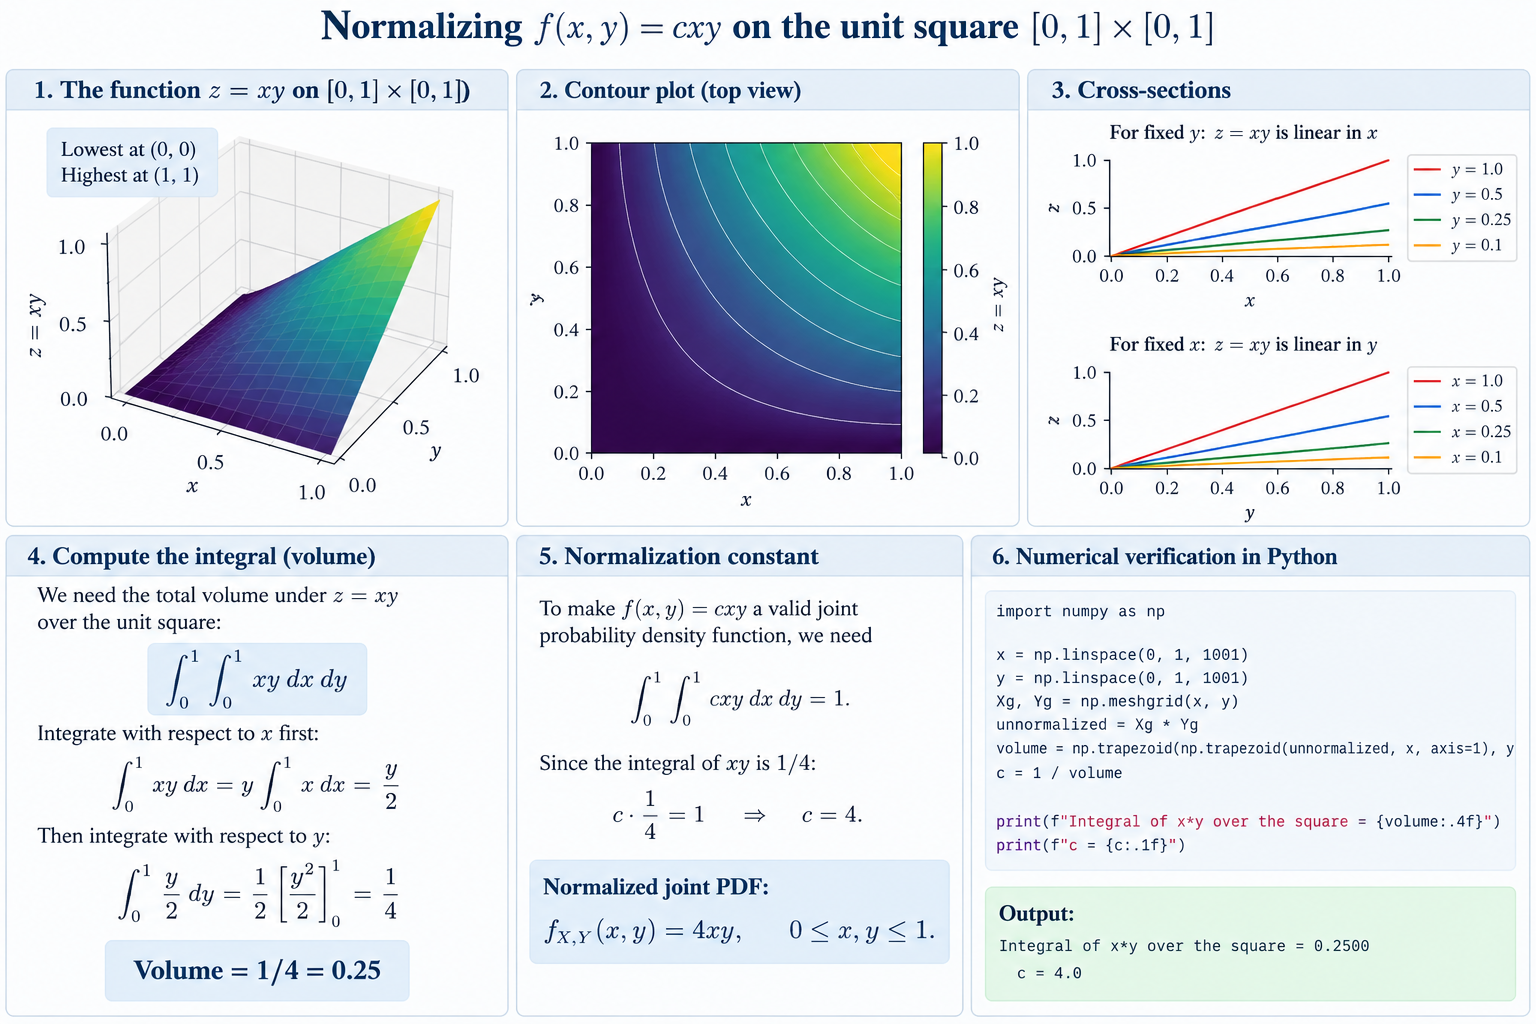
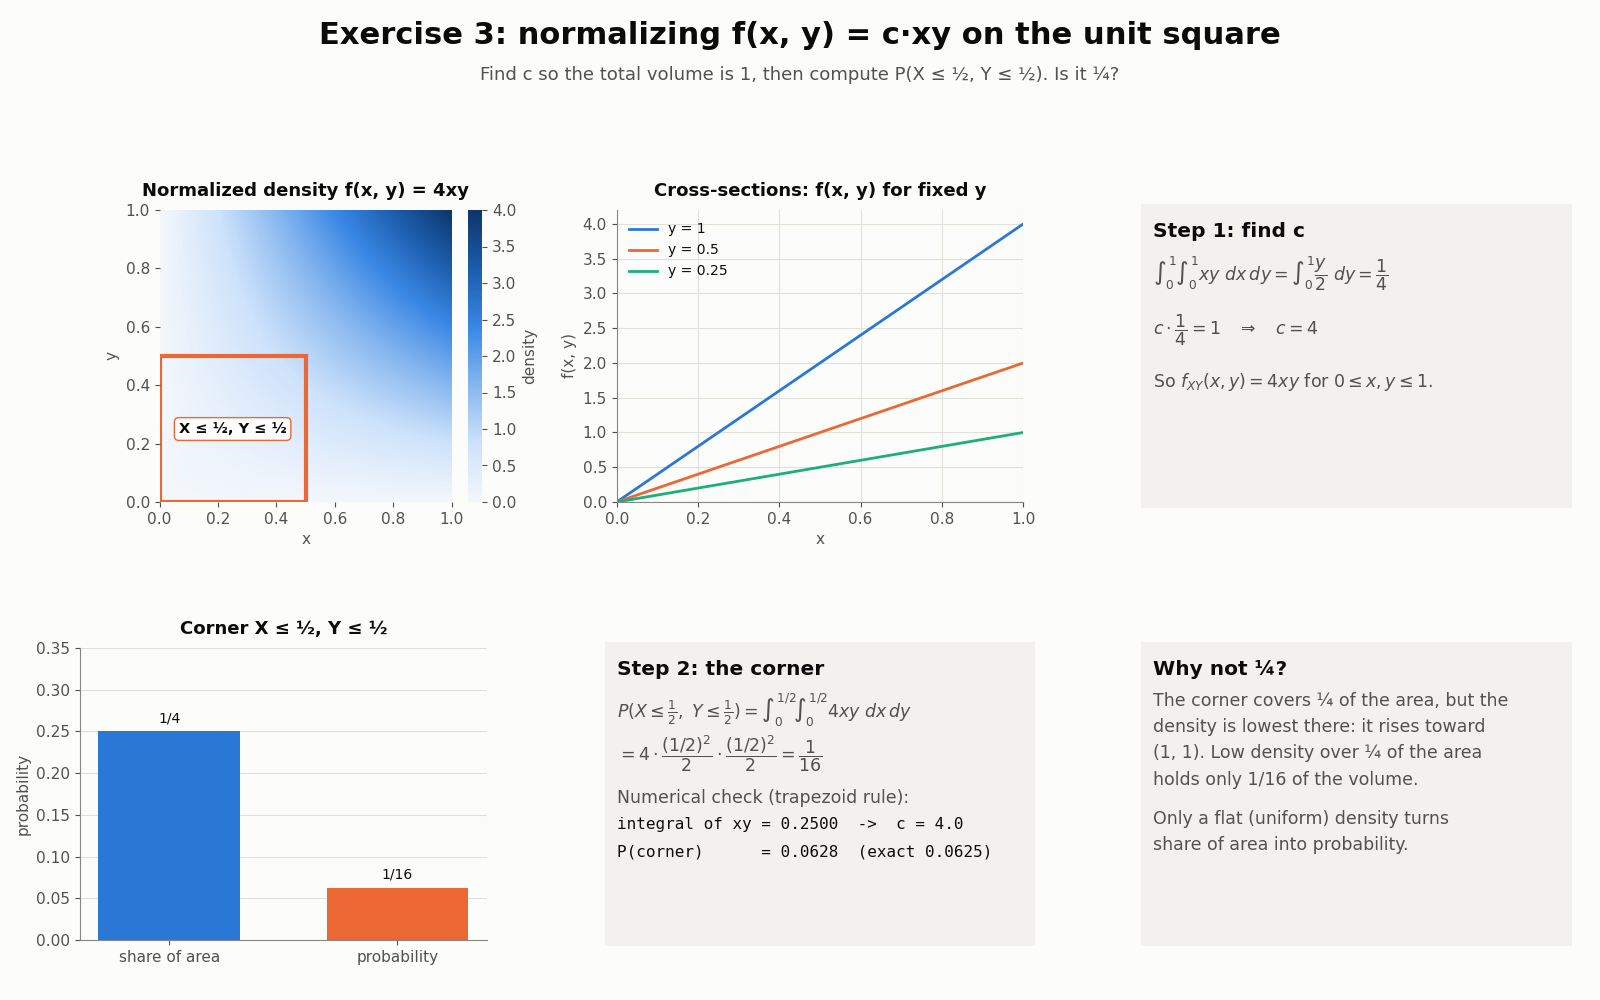
Regenerate remaining five solution images in the matplotlib style
All 13 illustrated solutions now come from make_solution_images.py with
one consistent style. The new 03_ex3 also covers the exercise's second
part, P(X<=1/2, Y<=1/2) = 1/16, which the old image omitted. Images
total 2.3 MB, down from about 21 MB.

diff --git a/coursera/03_probability_distribution_with_multiple_variables/make_solution_images.py b/coursera/03_probability_distribution_with_multiple_variables/make_solution_images.py
@@ -203,6 +203,290 @@ def wrap(text, width=48):
     return textwrap.wrap(text, width)
 
 
+def trapezoid(values, grid_points, axis=-1):
+    """np.trapezoid with the numpy<2 fallback."""
+    integrate = getattr(np, "trapezoid", None) or np.trapz
+    return integrate(values, grid_points, axis=axis)
+
+
+def density_image(fig, ax, values, title, vmax, extent=(0, 1, 0, 1), label="density"):
+    image = ax.imshow(values.T, origin="lower", extent=extent, cmap=SEQ, vmin=0, vmax=vmax,
+                      aspect="equal")
+    colorbar = fig.colorbar(image, ax=ax, fraction=0.046, pad=0.04)
+    colorbar.set_label(label)
+    colorbar.outline.set_visible(False)
+    ax.set_title(title)
+    for spine in ax.spines.values():
+        spine.set_visible(False)
+    return image
+
+
+# ================================================================ notebook 03 (correct originals, restyled)
+def fig_03_ex3():
+    grid_1d = np.linspace(0, 1, 1001)
+    xg, yg = np.meshgrid(grid_1d, grid_1d, indexing="ij")
+    volume = trapezoid(trapezoid(xg * yg, grid_1d, axis=1), grid_1d)
+    c = 1 / volume
+    corner = np.where((xg <= 0.5) & (yg <= 0.5), c * xg * yg, 0)
+    p_corner = trapezoid(trapezoid(corner, grid_1d, axis=1), grid_1d)
+    assert abs(c - 4) < 1e-6 and abs(p_corner - 1 / 16) < 2e-3
+
+    fig = new_figure("Exercise 3: normalizing f(x, y) = c·xy on the unit square",
+                     "Find c so the total volume is 1, then compute P(X ≤ ½, Y ≤ ½). Is it ¼?")
+    gs = grid(fig, wspace=0.32)
+
+    ax = fig.add_subplot(gs[0, 0])
+    density_image(fig, ax, c * xg * yg, "Normalized density f(x, y) = 4xy", vmax=4)
+    ax.add_patch(Rectangle((0, 0), 0.5, 0.5, fill=False, edgecolor=ORANGE, linewidth=3))
+    ax.text(0.25, 0.25, "X ≤ ½, Y ≤ ½", ha="center", va="center", fontsize=10.5, weight="bold",
+            color=INK, bbox=dict(facecolor="white", edgecolor=ORANGE, boxstyle="round,pad=0.3"))
+    ax.set_xlabel("x")
+    ax.set_ylabel("y")
+
+    ax = fig.add_subplot(gs[0, 1])
+    for y_fixed, color in [(1.0, BLUE), (0.5, ORANGE), (0.25, AQUA)]:
+        ax.plot(grid_1d, c * grid_1d * y_fixed, color=color, linewidth=2, label=f"y = {y_fixed:g}")
+    ax.set_title("Cross-sections: f(x, y) for fixed y")
+    ax.set_xlabel("x")
+    ax.set_ylabel("f(x, y)")
+    ax.set_xlim(0, 1)
+    ax.set_ylim(0, 4.2)
+    ax.grid(True)
+    ax.legend(loc="upper left", fontsize=10)
+
+    panel(fig.add_subplot(gs[0, 2]), "Step 1: find c", [
+        r"$\int_0^1 \int_0^1 xy\ dx\,dy = \int_0^1 \dfrac{y}{2}\ dy = \dfrac{1}{4}$",
+        "",
+        "",
+        r"$c \cdot \dfrac{1}{4} = 1 \quad \Rightarrow \quad c = 4$",
+        "",
+        "",
+        r"So $f_{XY}(x, y) = 4xy$ for $0 \leq x, y \leq 1$.",
+    ], spacing=0.1)
+
+    ax = fig.add_subplot(gs[1, 0])
+    bars(ax, ["share of area", "probability"], [0.25, p_corner],
+         "Corner X ≤ ½, Y ≤ ½", "", ylim=0.35, label_fmt=lambda v: frac_label(v, 16), highlight=1)
+
+    panel(fig.add_subplot(gs[1, 1]), "Step 2: the corner", [
+        r"$P(X \leq \frac{1}{2},\ Y \leq \frac{1}{2}) = \int_0^{1/2}\!\int_0^{1/2} 4xy\ dx\,dy$",
+        "",
+        r"$= 4 \cdot \dfrac{(1/2)^2}{2} \cdot \dfrac{(1/2)^2}{2} = \dfrac{1}{16}$",
+        "",
+        "",
+        "Numerical check (trapezoid rule):",
+        f"`integral of xy = {volume:.4f}  ->  c = {c:.1f}`",
+        f"`P(corner)      = {p_corner:.4f}  (exact 0.0625)`",
+    ], spacing=0.095)
+
+    panel(fig.add_subplot(gs[1, 2]), "Why not ¼?", [
+        "The corner covers ¼ of the area, but the",
+        "density is lowest there: it rises toward",
+        "(1, 1). Low density over ¼ of the area",
+        "holds only 1/16 of the volume.",
+        "",
+        "Only a flat (uniform) density turns",
+        "share of area into probability.",
+    ], spacing=0.09)
+    save(fig, "03_ex3_normalizing.png")
+
+
+def fig_03_ex6(big_wait, big_rate):
+    rng = np.random.default_rng(5)
+    x_pos = np.clip(rng.normal(5, 2.6, 100_000), 0, 10)
+    y_pos = np.clip(0.8 * x_pos + rng.normal(1, 1.4, 100_000), 0, 10)
+    datasets = [("Call center", big_wait, big_rate, "X = waiting time", "Y = rating"),
+                ("Constructed: Y = 0.8X + noise", x_pos, y_pos, "X", "Y")]
+
+    def cov_corr(x, y):
+        cov = np.mean((x - x.mean()) * (y - y.mean()))
+        return cov, cov / (x.std() * y.std())
+
+    stats = [cov_corr(x, y) for _, x, y, _, _ in datasets]
+
+    fig = new_figure("Exercise 6: positive vs negative dependence",
+                     "The direction of the high-density ridge shows the sign of the relationship between X and Y.")
+    gs = grid(fig, wspace=0.32)
+    sample = np.random.default_rng(0).choice(100_000, size=4000, replace=False)
+    for col, (name, x, y, xlabel, ylabel) in enumerate(datasets):
+        density, _, _ = np.histogram2d(x, y, bins=40, range=[[0, 10], [0, 10]], density=True)
+        ax = fig.add_subplot(gs[0, col])
+        density_image(fig, ax, density, f"{name}: joint density", vmax=np.percentile(density, 99),
+                      extent=(0, 10, 0, 10), label="density (capped at 99th pct)")
+        ax.set_xlabel(xlabel)
+        ax.set_ylabel(ylabel)
+
+        ax = fig.add_subplot(gs[1, col])
+        ax.scatter(x[sample], y[sample], s=5, color=BLUE, alpha=0.3, linewidths=0)
+        ax.set_xlim(0, 10)
+        ax.set_ylim(0, 10)
+        ax.set_aspect("equal")
+        ax.grid(True)
+        ax.set_title(f"{name}: 4,000 sampled points", fontsize=12)
+        ax.set_xlabel(xlabel)
+        ax.set_ylabel(ylabel)
+
+    panel(fig.add_subplot(gs[0, 2]), "Reading the ridges", [
+        "Call center: the mass sits top-left and",
+        "bottom-right. Long waits go with low",
+        "ratings → negative relationship.",
+        "",
+        "Constructed: the ridge rises from",
+        "bottom-left to top-right. Large X goes",
+        "with large Y → positive relationship.",
+    ], spacing=0.095)
+    panel(fig.add_subplot(gs[1, 2]), "Preview: covariance", [
+        "Computed from all 100,000 points:",
+        "",
+        f"Call center:   Cov = {stats[0][0]:.2f},  corr = {stats[0][1]:.2f}",
+        f"Constructed:  Cov = {stats[1][0]:.2f},  corr = {stats[1][1]:.2f}",
+        "",
+        "Downward ridge → Cov < 0.",
+        "Upward ridge → Cov > 0.",
+        "Covariance puts a number on this next.",
+    ], spacing=0.09)
+    save(fig, "03_ex6_joint_distribution_neg_pos.png")
+
+
+# ================================================================ notebook 04 (correct originals, restyled)
+def fig_04_ex3():
+    counts = np.zeros((6, 6))
+    for a in FACES:
+        for b in FACES:
+            counts[max(a, b) - 1, a - 1] += 1
+    marginal = counts.sum(axis=1) / 36
+    formula = np.array([(2 * m - 1) / 36 for m in FACES])
+    assert np.allclose(marginal, formula)
+    labels = [[f"{int(v)}/36" if v else "0" for v in row] for row in counts]
+
+    fig = new_figure("Exercise 3: joint of the first die and the maximum",
+                     "A = first die, M = max(A, B) of two fair dice. Sum each row to get the marginal of M.")
+    gs = grid(fig)
+    heat(fig.add_subplot(gs[0, :2]), counts / 36, FACES, FACES, "Joint P(M = m, A = a)",
+         "M = maximum", "A = first die", labels=labels, vmax=6 / 36 * 1.2)
+    panel(fig.add_subplot(gs[0, 2]), "Reading the table", [
+        "If a < m, the second die must show m:",
+        "1 outcome → 1/36.",
+        "",
+        "If a = m, the second die can be 1, …, m:",
+        "m outcomes → m/36 (the diagonal).",
+        "",
+        "If a > m: impossible, since the maximum",
+        "is at least the first die → 0.",
+    ], spacing=0.095)
+    grouped_bars(fig.add_subplot(gs[1, :2]), FACES,
+                 [("from the table (row sums)", marginal, BLUE), ("formula (2m − 1)/36", formula, ORANGE)],
+                 "Marginal P(M = m): table vs formula", "M = maximum", ylim=0.4,
+                 label_fmt=lambda v: f"{round(v * 36)}/36")
+    panel(fig.add_subplot(gs[1, 2]), "The direct formula", [
+        "M ≤ m means both dice are at most m:",
+        r"$P(M \leq m) = \dfrac{m^2}{36}$",
+        "",
+        "",
+        r"$P(M = m) = \dfrac{m^2 - (m-1)^2}{36} = \dfrac{2m - 1}{36}$",
+        "",
+        "",
+        "Row sums 1, 3, 5, 7, 9, 11 (in 36ths)",
+        "match the formula, and they add up to 36.",
+    ], spacing=0.085)
+    save(fig, "04_ex3_marginal_distribution.png")
+
+
+def fig_04_ex4():
+    grid_1d = np.linspace(0, 1, 501)
+    xg, yg = np.meshgrid(grid_1d, grid_1d, indexing="ij")
+    cases = [("Uniform f = 1", np.ones_like(xg)), ("f = 4xy", 4 * xg * yg)]
+    marginals = {name: (trapezoid(f, grid_1d, axis=1), trapezoid(f, grid_1d, axis=0)) for name, f in cases}
+    checks = {name: [fx[i] for i in (125, 250, 375)] for name, (fx, _) in marginals.items()}
+    assert np.allclose(checks["f = 4xy"], [0.5, 1.0, 1.5], atol=1e-3)
+
+    fig = new_figure("Exercise 4: marginals of a joint density on the unit square",
+                     "Integrate out one variable to get each marginal, then check whether the joint factors.")
+    gs = grid(fig, wspace=0.32)
+    for col, (name, f) in enumerate(cases):
+        ax = fig.add_subplot(gs[0, col])
+        density_image(fig, ax, f, f"{name}: joint density", vmax=4)
+        ax.set_xlabel("x")
+        ax.set_ylabel("y")
+
+        fx, fy = marginals[name]
+        ax = fig.add_subplot(gs[1, col])
+        ax.plot(grid_1d, fx, color=BLUE, linewidth=2.5, label=r"$f_X(x)$")
+        ax.plot(grid_1d, fy, color=ORANGE, linewidth=2, linestyle="--", label=r"$f_Y(y)$")
+        ax.set_xlim(0, 1)
+        ax.set_ylim(0, 2.2)
+        ax.grid(True)
+        ax.set_xlabel("x (or y)")
+        ax.set_ylabel("marginal density")
+        ax.set_title(f"{name}: marginals " + ("(both flat at 1)" if col == 0 else "(both 2x)"))
+        ax.legend(loc="upper left", fontsize=10)
+
+    panel(fig.add_subplot(gs[0, 2]), "Integrate out the other variable", [
+        r"Uniform:  $f_X(x) = \int_0^1 1\ dy = 1$",
+        "",
+        r"4xy:  $f_X(x) = \int_0^1 4xy\ dy = 2x$",
+        "",
+        r"          $f_Y(y) = \int_0^1 4xy\ dx = 2y$",
+        "",
+        "",
+        "Numerical marginal f_X at x = 0.25, 0.5, 0.75:",
+        "`uniform: " + ", ".join(f"{v:.3f}" for v in checks["Uniform f = 1"]) + "`",
+        "`4xy:     " + ", ".join(f"{v:.3f}" for v in checks["f = 4xy"]) + "`",
+    ], spacing=0.1)
+    panel(fig.add_subplot(gs[1, 2]), "Independent?", [
+        r"Uniform:  $f_X(x)\,f_Y(y) = 1 \cdot 1 = 1 = f_{XY}$",
+        "",
+        r"4xy:  $f_X(x)\,f_Y(y) = 2x \cdot 2y = 4xy = f_{XY}$",
+        "",
+        "Both joints factor into their marginals,",
+        "so in both cases X and Y are independent,",
+        "even though 4xy is far from flat.",
+    ], spacing=0.1)
+    save(fig, "04_ex4_marginals_unit_squares.png")
+
+
+def fig_04_ex6():
+    joint3 = np.full((6, 6, 6), 1 / 216)
+    two_dice = joint3.sum(axis=2)
+    one_die = two_dice.sum(axis=1)
+    assert np.allclose(two_dice, 1 / 36) and np.allclose(one_die, 1 / 6)
+
+    fig = new_figure("Exercise 6: marginalizing a three-variable joint",
+                     "Three fair dice: sum out X₃, then X₂, one variable at a time.")
+    gs = grid(fig, wspace=0.32)
+    heat(fig.add_subplot(gs[0, 0]), joint3[:, :, 0], FACES, FACES,
+         "One layer of P(X₁, X₂, X₃): 1/216", "X₁", "X₂", labels=[["1/216"] * 6] * 6,
+         vmax=1 / 216 * 2.5, fontsize=9)
+    heat(fig.add_subplot(gs[0, 1]), two_dice, FACES, FACES, "Sum over X₃: P(X₁, X₂) = 1/36",
+         "X₁", "X₂", labels=[[frac_label(v) for v in row] for row in two_dice], vmax=1 / 36 * 2.5)
+    bars(fig.add_subplot(gs[0, 2]), FACES, one_die, "Sum over X₂: P(X₁) = 1/6", "X₁", ylim=0.25)
+
+    panel(fig.add_subplot(gs[1, :2]), "Step by step", [
+        r"The joint is a 6 × 6 × 6 cube: six layers ($X_3$ = 1, …, 6) like the left table, every cell 1/216.",
+        "",
+        r"Sum out $X_3$:  $P(x_1, x_2) = \sum_{x_3=1}^{6} \dfrac{1}{216} = \dfrac{6}{216} = \dfrac{1}{36}$",
+        "",
+        "",
+        "",
+        r"Sum out $X_2$:  $P(x_1) = \sum_{x_2=1}^{6} \dfrac{1}{36} = \dfrac{1}{6}$",
+        "",
+        "",
+        "",
+        "`shape (6, 6, 6)  --sum axis 2-->  (6, 6)  --sum axis 1-->  (6,)`",
+        f"`all cells 1/36? {np.allclose(two_dice, 1 / 36)}     P(X1) = 1/6 each? {np.allclose(one_die, 1 / 6)}`",
+    ], spacing=0.075)
+    panel(fig.add_subplot(gs[1, 2]), "Key takeaways", [
+        "To remove a variable, sum its",
+        "probabilities over all its values.",
+        "",
+        "Each sum removes one dimension.",
+        "",
+        "Chaining sums walks a joint down to",
+        "any subset of its variables, in any order.",
+    ], spacing=0.09)
+    save(fig, "04_ex6_3_variable_joint.png")
+
+
 # ================================================================ notebook 03
 def fig_03_ex4(big_wait, big_rate):
     rng = np.random.default_rng(0)
@@ -592,9 +876,14 @@ def fig_05_ex5():
 
 if __name__ == "__main__":
     wait, rate = load_call_center()
+    fig_03_ex3()
     fig_03_ex4(wait, rate)
     fig_03_ex5(wait, rate)
+    fig_03_ex6(wait, rate)
+    fig_04_ex3()
+    fig_04_ex4()
     fig_04_ex5()
+    fig_04_ex6()
     fig_05_ex1()
     fig_05_ex2()
     fig_05_ex3()
